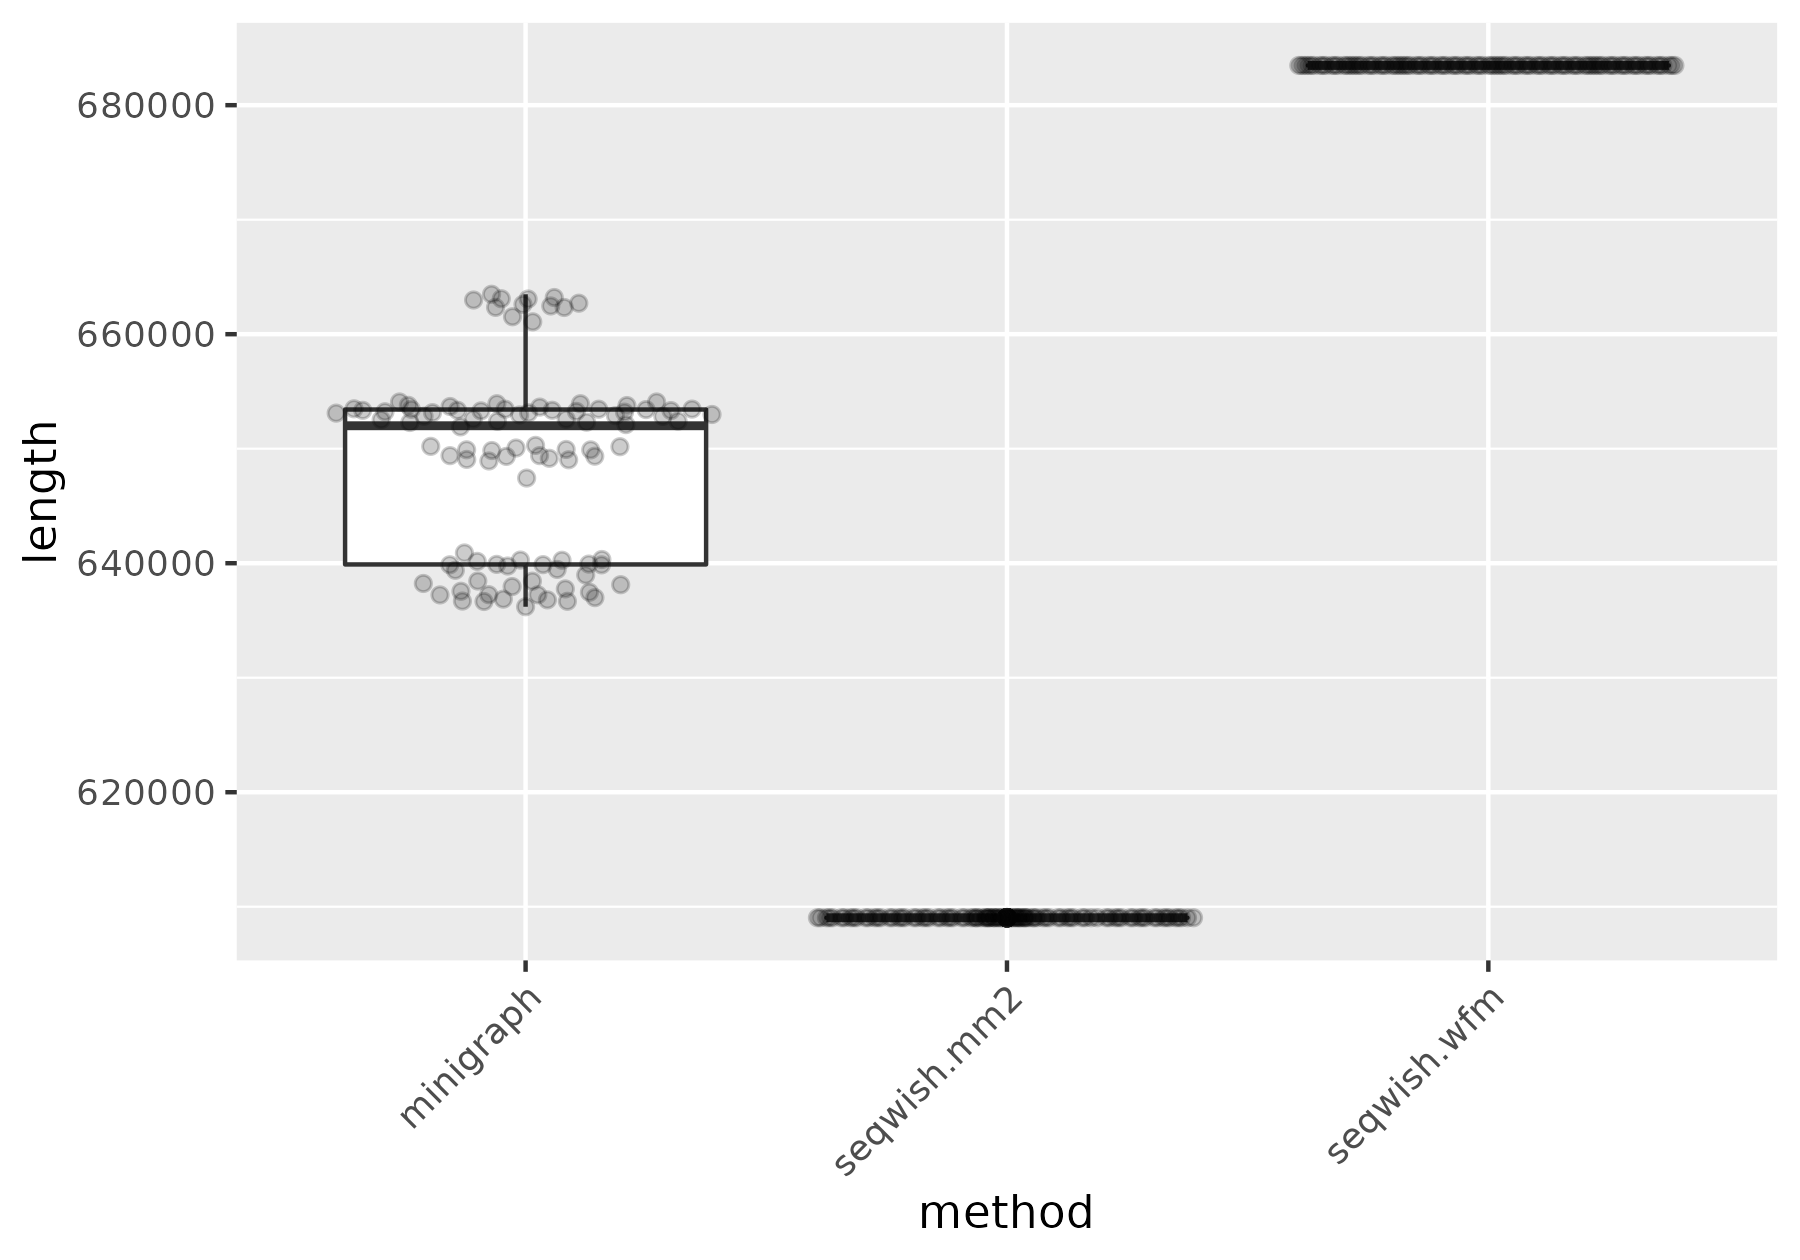
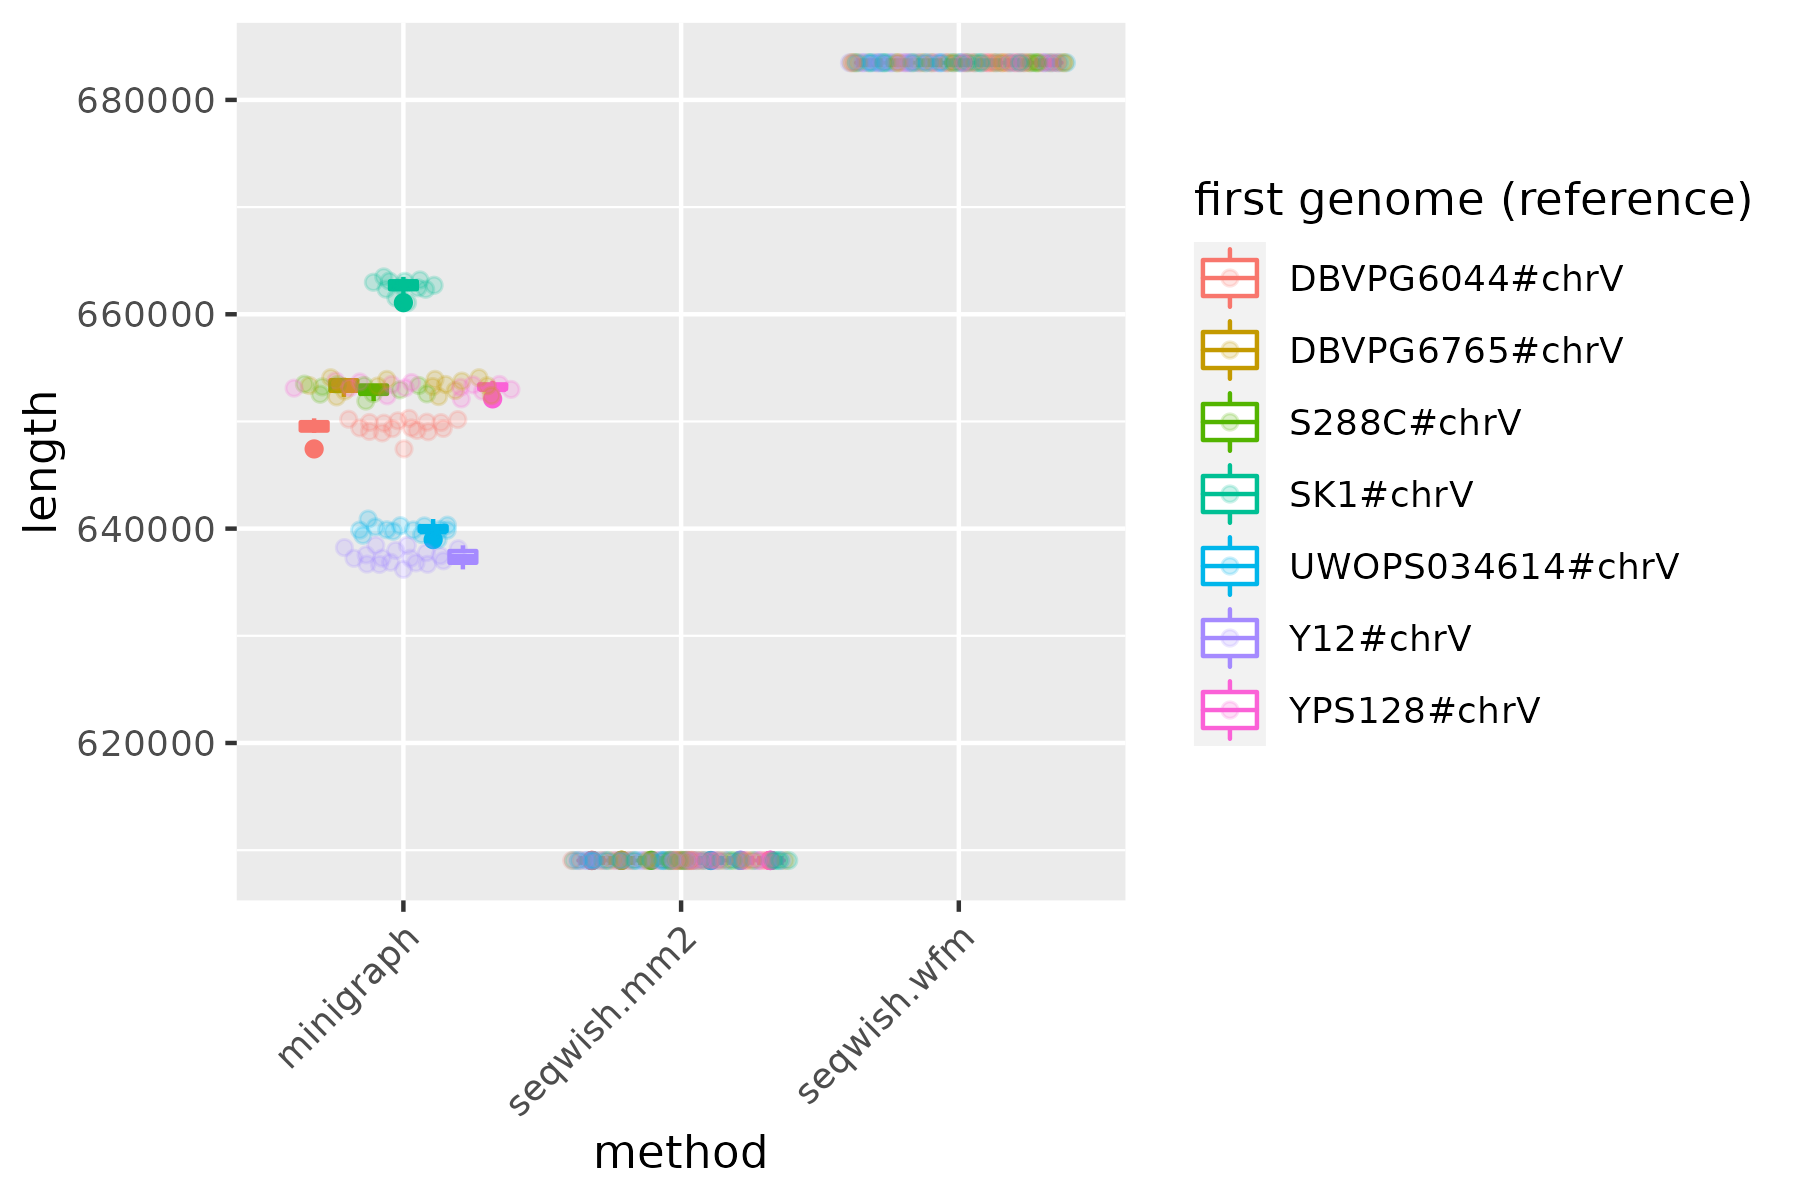
onward

diff --git a/manuscript/main.tex b/manuscript/main.tex
@@ -441,6 +441,7 @@ To construct the graph we first generate alignments with \textit{wfmash} \citep{
 \textit{MashMap2} allows the user to define a homology length and pairwise divergence, expressed as a percent identity, over which to generate homology maps.
 This is useful when constructing pangenome graphs, because, in contrast to methods that are based on $k$-mer chaining \citep{harris2007lastz,Li_2018}, it allows us to query the homology space of input genomes using two easily-interpretable parameters.
 The version of \textit{wfmash} used in these experiments allows us to align sequences with up to 10\% divergence between them, providing highly-sensitive input for our experiments.
+Our use of \textit{wfmash} is pragmatic, and any mapping method capable of generating PAF with base-level alignments in CIGAR strings is capable of being used as input to \textit{seqwish}.
 
 %\subsection{Experimental insights}
 
@@ -460,9 +461,13 @@ We find that our particular partitioning scheme (we compact the graph in chunks 
 In practice, setting the chunk size lower tends to resolve this problem, but will also increase runtime.
 To simplify comparisons between the different parameter settings, we have not re-run these settings with a different partition size nor on computer nodes with a larger, then different, amount of RAM.
 
+Our results with these four species-specific pangenomes give a basic demonstration of how pangenome graphs can be adjusted through key parameters of alignment and match filtering.
+These results are demonstrative of graph induction.
+In typical applications, we expect \textit{seqwish} to be applied as part of a larger process to build and refine a pangenome graph \citep{Garrison2022_pggb,Liao_2022}.
+
 \input{fig_experiments.tex}
 
-\subsection{Comparison to similar graph building methods}
+\subsection{Comparison to related graph building methods}
 \label{sec:comparison}
 
 We have so far described our method for graph induction, provided detail on its implementation, and demonstrated its behavior over a set of pangenome graph building problems.
@@ -472,17 +477,29 @@ However, the reader may wonder how the method compares to other similar methods 
 To focus on this questions, we examine the case of a single chromosome (chrV) of \textit{S. cerevisiae} for which we have 7 assemblies \citep{Yue_2017}.
 We compute 100 random permutations \citep{Williams2009-ou} of these assemblies and provide them to several graph construction methods, including \textit{minigraph} \citep{Li:2020}, \textit{TwoPaCo} \citep{Minkin_2016}, and \textit{seqwish} based on \textit{minimap2} \citep{Li_2018} or \textit{wfmash} \citep{wfmash} alignments.
 
-Of existing methods, \textit{TwoPaCo} is the only that provides a variation graph in the same form as \textit{seqwish}.
+Of existing methods, \textit{TwoPaCo} provides a graph in a form that is similar to \textit{seqwish}'s.
 However, it is based on a De Bruijn Graph that must have a relatively low $k$-mer length, leading to complex topologies that in our experience cannot be resolved easily by increasing $k$.
-We do not expect \textit{TwoPaCo} to be biased with respect to input genome order.
+Furthermore, the overlaps between nodes are incompatible with the variation graph model, and must be reduced or ``bluntified'' with additional processing steps to be usable as input to variation graph tools \citep{Eizenga2021-yg}.
+Because it is based on a De Bruijn Graph, which is symmetrically constructed from a set of $k$-mers and not the sequences themselves, we do not expect \textit{TwoPaCo} to be biased with respect to input genome order.
+
 In contrast, \textit{minigraph} develops a kind of partial order alignment over the minimizers (sparse $k$-mer set) of input genomes, and it progressively builds the graph by adding new variation from each genome in order.
 We do expect it be order and reference (first input) biased, although the degree of bias requires experimentation to establish.
-Finally, \textit{seqwish} itself is by definition unbiased with respect to input order, but if the alignments are biased due to changes in order, we should see effects on the resulting graph.
 
-We use ODGI to compute the size of the resulting graphs \citep{Guarracino2022}, and use this as a proxy for graph identity.
+Finally, \textit{seqwish} itself is by definition unbiased with respect to input order, but if the alignments are affected by changes in order, the resulting graph will also change.
+
+We use ODGI to compute the size of the resulting graphs \citep{Guarracino2022}.
 When the graph length changes, it provides a clear indication that the graph itself has changed.
 It also gives an indication of the scale of the differences, which may indicate how large an effect of a different construction approach might be.
 Conversely, if the graph length is the same for two large graphs, we assume that in most cases they really do have the same topology and sequence space, even if they may have different node identifiers and ordering in the serialization of the graph.
+
+As we observe in Figure \ref{fig:yeast}, \textit{minigraph} indeed generates a distribution of graph lengths with clusters that apparently correspond to similar regions of the permutation space.
+However, this is not the case for the \textit{seqwish} builds based on \textit{minimap2} and \textit{wfmash}, which appear to have almost exactly the same length across all permutations.
+We further consider variance in the length, node count, and edge count of all graphs.
+This shows that, as expected, \textit{minigraph}'s output depends markedly on input genome order.
+We also find that \textit{minimap2} configuration we used is not order-independent, and can produce slightly different outputs when the reference and query sequences are ordered differently, demonstrating that \textit{seqwish} is only ``unbiased'' insofar as the input mappings are.
+For \textit{TwoPaCo} and \textit{wfmash}+\textit{seqwish}, we observe no variation in length.
+The length of \textit{TwoPaCo} graphs is significantly larger due to the repetition in node sequences, which overlap by $k-1$ base pairs.
+%, when considering the variance of the length, node count, and edge count of the graphs
 
 \input{fig_chrV_yeast.tex}
 

diff --git a/workflows/yeast_chrV_order.md b/workflows/yeast_chrV_order.md
@@ -71,6 +71,7 @@ Finally, we'll bring all these outputs together, measuring graph properties such
 
 ```shell
 ( echo 'method length nodes edges paths steps' | tr ' ' '\t'; seq 100 | while read i; do echo minigraph $(sed 's/\ts/\t/g' minigraph_order$i.gfa >x.gfa && odgi build -g x.gfa -o - | odgi stats -i - -S | tail -n+2); done ; seq 100 | while read i ; do echo seqwish.mm2 $(odgi build -g seqwish_mm2_order$i.gfa -o - | odgi stats -i - -S | tail -n+2); done ; seq 100 | while read i ; do echo seqwish.wfm $(odgi build -g seqwish_wf_order$i.gfa -o - | odgi stats -i - -S | tail -n+2); done  ; seq 100 | while read i ; do echo seqwish.wfava $(odgi build -g seqwish_wf-ava_order$i.gfa -o - | odgi stats -i - -S | tail -n+2); done  ;  seq 100 | while read i ; do echo seqwish.biwfl $(odgi build -g seqwish-biwfaλ_order$i.gfa -o - | odgi stats -i - -S | tail -n+2); done; seq 100 | while read i ; do echo twopaco.k19 $(odgi build -g twopaco_order$i.gfa -o - | odgi stats -i - -S | tail -n+2); done ) | tr ' ' '\t' >results.tsv
+paste results.tsv <(echo ref; for i in 1 2 3 4 5 6; do cat 100_orders.txt | cut -f 1 -d\  | awk '{ print $0 }' ; done ) >x.tsv
 ```
 
 ## plotting results
@@ -80,11 +81,11 @@ Although two graphs can be different topologically and yet have the same length,
 For simplicity, we focus just on `minigraph`, `seqwish`+`minimap2`, and `seqwish`+`wfmash`.
 
 ```R
-x <- read.delim('results.tsv')
+x <- read.delim('x.tsv')
 x$method <- as.factor(x$method)
 summary(x)
 require(tidyverse)
-ggplot(subset(x, method!="twopaco.k19" & method!="seqwish.wfava" & method!="seqwish.biwfl"), aes(y=length, x=method)) + geom_boxplot() + geom_quasirandom(alpha=I(1/5)) + theme(axis.text.x = element_text(angle = 45, vjust=1, hjust=1)) ; ggsave("yeast_chrV_length_vs_100orders.png", height=2.67, width=3)
+ggplot(subset(x, method!="twopaco.k19" & method!="seqwish.wfava" & method!="seqwish.biwfl"), aes(y=length, x=method, color=ref)) + geom_boxplot() + geom_quasirandom(alpha=I(1/5)) + scale_color_discrete("first genome (reference)") + theme(axis.text.x = element_text(angle = 45, vjust=1, hjust=1)) ; ggsave("yeast_chrV_length_vs_100orders.png", height=4, width=6)
 ggsave("yeast_chrV_length_vs_100orders.pdf", height=4, width=4)
 ```
 
